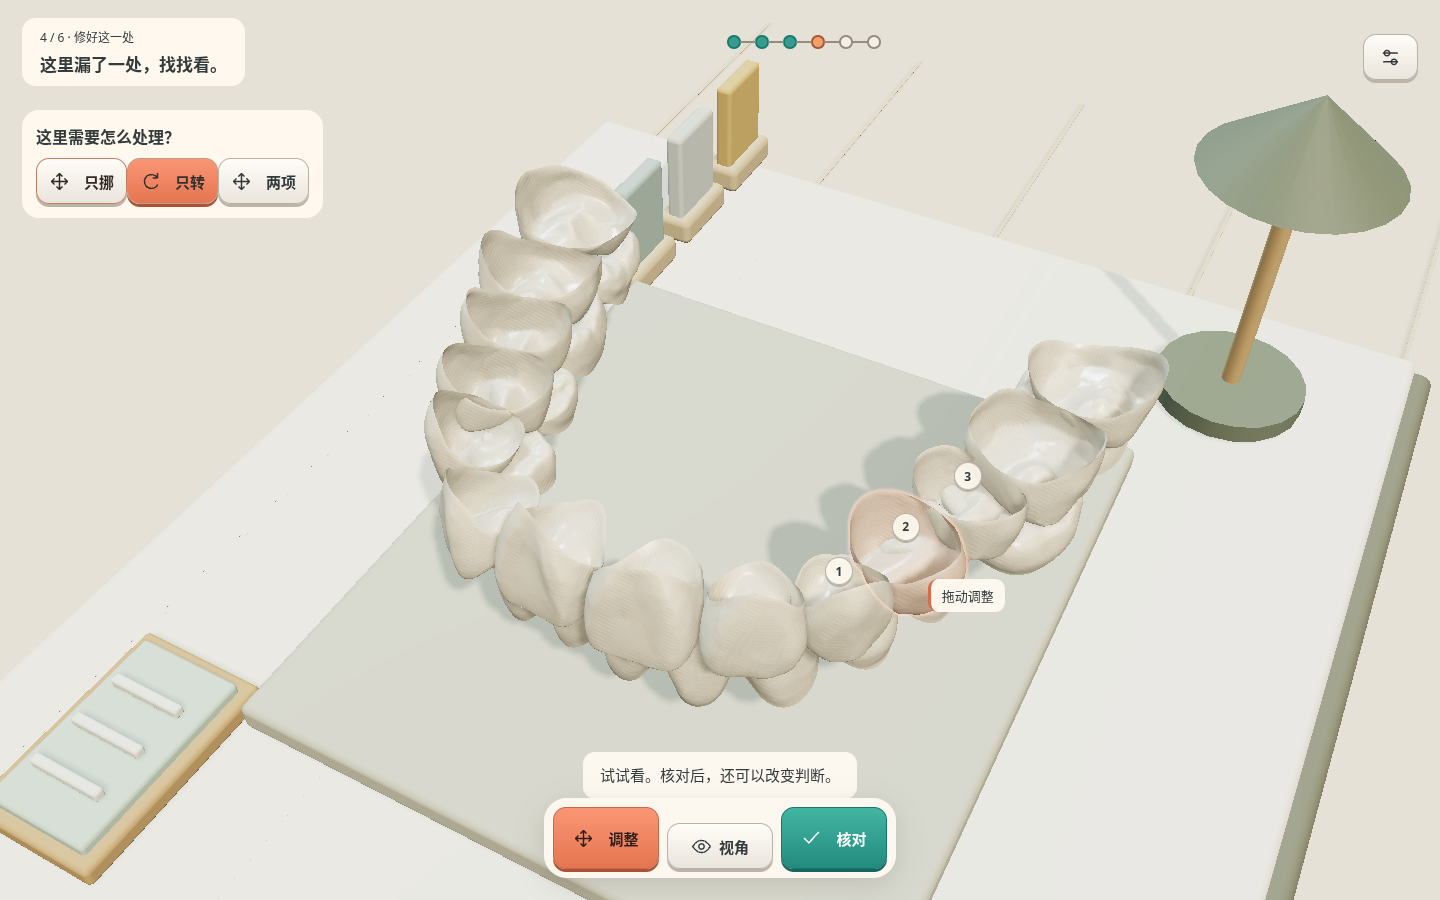
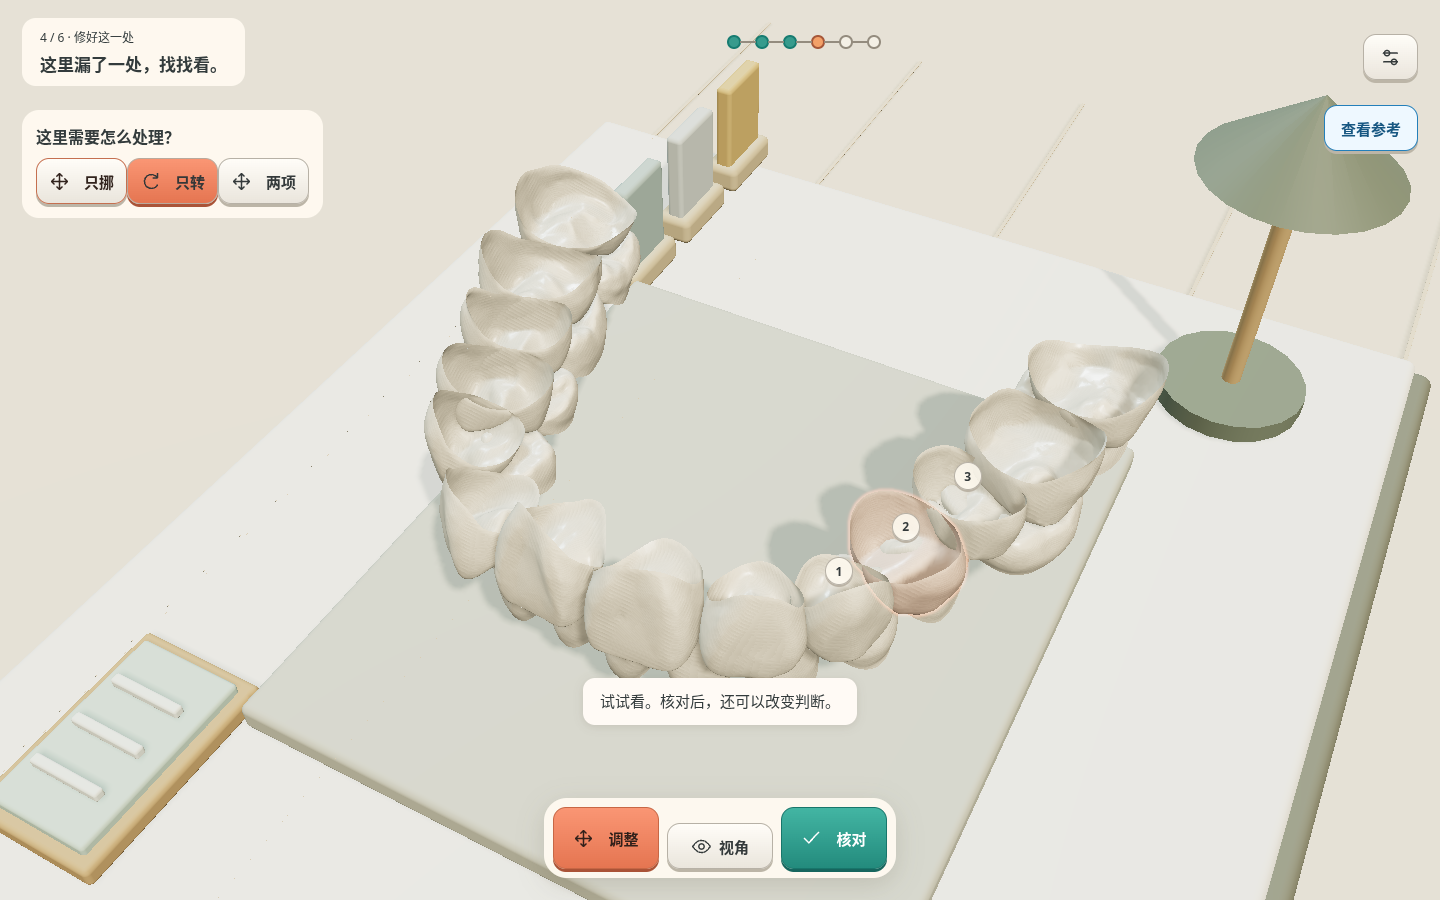
Expose course references and keep adjustment feedback unobstructed

Changed region(s): [[0.4062, 0.7467, 0.5938, 0.9022], [0.9062, 0.0933, 1.0, 0.1867], [0.625, 0.6222, 0.7188, 0.6844]]

diff --git a/chi-xu-workshop/src/course-workshop.ts b/chi-xu-workshop/src/course-workshop.ts
@@ -45,7 +45,7 @@ export function mountPrediction(
     tool: Tool = lessons[state.stage].tool ?? "translate",
     fine = false,
     axis: Axis = "X",
-    outline = state.stage < 2,
+    outline = state.stage < 3,
     readonly = false,
     replay = false,
     pending = false,
@@ -82,7 +82,7 @@ export function mountPrediction(
   const targetGuide = new Group();
   scene.scene.add(targetGuide);
   const guideEdges = new Map<string, LineSegments>();
-  for (const id of ["6", "8"]) {
+  for (const id of new Set(lessons.flatMap((lesson) => [...lesson.ids]))) {
     const edge = new LineSegments(
       new EdgesGeometry(scene.teeth.get(id)!.geometry, 32),
       new LineBasicMaterial({
@@ -112,15 +112,32 @@ export function mountPrediction(
     if (m && !Array.isArray(m)) m.depthTest = false;
   });
   function guidance() {
+    const available = !state.completed && !success && !replay;
+    const id =
+      state.stage < 2
+        ? lesson().ids[0]
+        : selected && candidate(selected)
+          ? selected
+          : null;
     const visible =
-      state.stage < 2 && !state.completed && !success && !replay && !readonly;
-    el("#course-guide").hidden = !visible;
+      available && !readonly && !!id && (state.stage < 2 || outline);
+    el(".course-game").dataset.advanced = String(state.stage >= 2);
+    const panel = el("#course-adjust");
+    el("#course-feedback").style.bottom = !panel.hidden
+      ? `${panel.getBoundingClientRect().height + 125}px`
+      : "";
+    el("#course-guide").hidden = !available;
+    el("#course-guide").dataset.active = String(visible);
     el("#course-guide svg").style.display = visible ? "" : "none";
     for (const edge of guideEdges.values()) edge.visible = false;
     goalArrow.visible = false;
-    el("#course-peek").textContent = readonly ? "回到操作" : "看正确位置";
+    el("#course-peek").textContent = readonly
+      ? "回到操作"
+      : state.stage < 2
+        ? "看正确位置"
+        : "查看参考";
     // Read-only comparison has a direct return next to the model as well.
-    if (readonly && state.stage < 2 && !replay) {
+    if (readonly && !replay) {
       el("#course-guide").hidden = false;
       el("#course-task-callout").hidden = true;
       el("#course-target-callout").hidden = true;
@@ -128,9 +145,8 @@ export function mountPrediction(
     }
     el("#course-task-callout").hidden = !visible;
     el("#course-target-callout").hidden = !visible;
-    if (!visible) return;
-    const id = lesson().ids[0],
-      target = data.target[id],
+    if (!visible || !id) return;
+    const target = data.target[id],
       mesh = scene.teeth.get(id)!,
       edge = guideEdges.get(id)!;
     edge.position
@@ -140,7 +156,10 @@ export function mountPrediction(
     edge.visible = true;
     const remaining = edge.position.clone().sub(mesh.position),
       length = remaining.length();
-    if (state.stage === 0 && length > tolerance.position) {
+    if (
+      (state.stage === 0 || (state.stage >= 2 && tool === "translate")) &&
+      length > tolerance.position
+    ) {
       goalArrow.position.copy(mesh.position);
       goalArrow.setDirection(remaining.normalize());
       goalArrow.setLength(
@@ -166,16 +185,29 @@ export function mountPrediction(
       b = el("#course-target-callout");
     a.style.left = `${x}px`;
     a.style.top = `${y - 90}px`;
-    a.textContent = state.stage === 0 ? "① 移动这颗牙" : "① 转动这颗牙";
-    b.style.left = `${Math.max(100, Math.min(w - 100, goal.x))}px`;
-    b.style.top = `${Math.max(y + 55, Math.min(h - 165, goal.y + 65))}px`;
+    a.textContent =
+      state.stage === 0
+        ? "① 移动这颗牙"
+        : state.stage === 1
+          ? "① 转动这颗牙"
+          : "当前选中";
+    const goalX = Math.max(
+      100,
+      Math.min(w - 100, goal.x + (state.stage >= 2 ? 150 : 0)),
+    );
+    const goalY =
+      state.stage >= 2
+        ? Math.max(165, y - 145)
+        : Math.max(y + 55, Math.min(h - 165, goal.y + 65));
+    b.style.left = `${goalX}px`;
+    b.style.top = `${goalY}px`;
     el("#course-task-leader").setAttribute(
       "d",
       `M ${x} ${y - 65} L ${current.x} ${current.y}`,
     );
     el("#course-target-leader").setAttribute(
       "d",
-      `M ${Math.max(100, Math.min(w - 100, goal.x))} ${Math.max(y + 55, Math.min(h - 165, goal.y + 65))} L ${goal.x} ${goal.y}`,
+      `M ${goalX} ${goalY + 20} L ${goal.x} ${goal.y}`,
     );
     scene.dirty = true;
   }
@@ -366,7 +398,9 @@ export function mountPrediction(
     feedback = candidate(id)
       ? state.stage === 3
         ? "先判断哪里需要修，再动手。"
-        : "拖动试试看。"
+        : state.stage >= 2
+          ? "蓝线是参考，可以先比较位置和朝向。"
+          : "拖动试试看。"
       : "这颗不在本次范围里，先检查眼前这一组。";
     paint();
   }
@@ -499,7 +533,7 @@ export function mountPrediction(
     undo.length = redo.length = 0;
     tool = lesson().tool ?? "translate";
     selected = state.stage < 3 || state.stage === 4 ? lesson().ids[0] : null;
-    outline = state.stage < 2;
+    outline = state.stage < 3;
     feedback = state.stage === 1 ? "位置不动，这次转方向。" : "";
     el("#course-adjust").hidden = true;
     paint();
@@ -640,6 +674,7 @@ export function mountPrediction(
     }
     if (a === "reference") {
       cancel();
+      el("#course-adjust").hidden = true;
       if (replay) {
         feedback = "先回到操作，再查看参考。";
         ui();
@@ -792,24 +827,36 @@ export function mountPrediction(
   if (state.completed) showReplay();
   const timer = setInterval(() => {
     guidance();
-    el("#course-region").innerHTML =
-      state.stage >= 2 && !readonly && !replay
-        ? lesson()
-            .ids.map((id, i) => {
-              const p = scene.marker(id);
-              return p?.visible
-                ? `<button aria-label="检查候选 ${i + 1}" data-course="pick-${id}" style="left:${p.x}px;top:${p.y - 30}px">${i + 1}</button>`
-                : "";
-            })
-            .join("")
-        : "";
+    const region = el("#course-region");
+    region.hidden = state.stage < 2 || readonly || replay;
+    const regionKey = lesson().ids.join(",");
+    if (region.dataset.key !== regionKey) {
+      region.dataset.key = regionKey;
+      region.innerHTML = lesson()
+        .ids.map(
+          (id, i) =>
+            `<button aria-label="检查候选 ${i + 1}" data-course="pick-${id}">${i + 1}</button>`,
+        )
+        .join("");
+    }
+    for (const id of lesson().ids) {
+      const point = scene.marker(id),
+        button = region.querySelector<HTMLElement>(
+          `[data-course="pick-${id}"]`,
+        )!;
+      button.hidden = !point?.visible;
+      if (point) {
+        button.style.left = `${point.x}px`;
+        button.style.top = `${point.y - 30}px`;
+      }
+    }
     if (!selected) {
       el("#course-label").hidden = true;
       return;
     }
     const p = scene.marker(selected);
     const label = el("#course-label");
-    label.hidden = !p?.visible;
+    label.hidden = !p?.visible || readonly || replay || success;
     if (p) {
       label.style.left = `${Math.max(8, Math.min(scene.host.clientWidth - 210, p.x + 22))}px`;
       label.style.top = `${Math.max(90, Math.min(scene.host.clientHeight - 190, p.y + 22))}px`;

diff --git a/chi-xu-workshop/tests/browser/course.spec.ts b/chi-xu-workshop/tests/browser/course.spec.ts
@@ -426,3 +426,97 @@ test("第二关视觉接近即可通过，明显方向偏差仍提示修正", as
   await expect(page.locator("#course-feedback")).toContainText("方向还差一点");
   await expect(page.locator("#course-success")).toBeHidden();
 });
+
+test("第三关参考直接可见，选择同步目标，切换参考同镜头只读并收起操作栏", async ({
+  page,
+}) => {
+  await enter(page, 2);
+  await expect(page.locator("#course-peek")).toHaveText("查看参考");
+  await b(page, "pick-10").click();
+  await expect(page.locator("#course-target-callout")).toBeVisible();
+  const snap = () =>
+    page.evaluate(() => {
+      const s = (window as any).__courseScene;
+      return {
+        camera: s.camera.position.toArray(),
+        target: s.orbit.target.toArray(),
+        poses: Object.fromEntries(
+          [...s.teeth.keys()].map((id) => [id, s.readPose(id)]),
+        ),
+        edges: s.scene.children.flatMap((g: any) =>
+          g.children
+            .filter((o: any) => o.type === "LineSegments" && o.visible)
+            .map((o: any) => ({
+              position: o.position.toArray(),
+              quaternion: o.quaternion.toArray(),
+            })),
+        ),
+      };
+    });
+  const before = await snap(),
+    raw = await saved(page);
+  expect(before.edges.length).toBe(1);
+  const pivot = data.target["10"].pivot,
+    translation = data.target["10"].translation;
+  before.edges[0].position.forEach((v: number, i: number) =>
+    expect(v).toBeCloseTo(pivot[i] + translation[i], 8),
+  );
+  await b(page, "adjust").click();
+  await b(page, "check").click();
+  await expect
+    .poll(async () => {
+      const feedback = await page.locator("#course-feedback").boundingBox(),
+        panel = await page.locator("#course-adjust").boundingBox();
+      return feedback!.y + feedback!.height <= panel!.y;
+    })
+    .toBe(true);
+  await page.screenshot({
+    path: "docs/screenshots/course-reference-feedback.png",
+  });
+  await page.locator("#course-peek").click();
+  await expect(page.locator("#course-adjust")).toBeHidden();
+  await expect(page.locator("#course-peek")).toHaveText("回到操作");
+  const reference = await snap();
+  reference.camera.forEach((v: number, i: number) =>
+    expect(v).toBeCloseTo(before.camera[i], 8),
+  );
+  for (const id of ["9", "10"])
+    expect(reference.poses[id].quaternion).toEqual(data.target[id].quaternion);
+  expect(await saved(page)).toBe(raw);
+  await page.locator("#course-peek").click();
+  expect((await snap()).poses).toEqual(before.poses);
+  expect(await saved(page)).toBe(raw);
+  await page.screenshot({
+    path: "docs/screenshots/course-reference-third.png",
+  });
+  await page.setViewportSize({ width: 390, height: 844 });
+  await expect(page.locator("#course-peek")).toBeInViewport();
+  await b(page, "adjust").click();
+  await b(page, "check").click();
+  await expect
+    .poll(async () => {
+      const f = await page.locator("#course-feedback").boundingBox(),
+        p = await page.locator("#course-adjust").boundingBox();
+      return f!.y + f!.height <= p!.y;
+    })
+    .toBe(true);
+  await page.screenshot({
+    path: "docs/screenshots/course-reference-third-mobile.png",
+  });
+});
+
+test("找错与终章不预标答案，但始终有直接参考入口且不改保存", async ({
+  page,
+}) => {
+  for (const stage of [3, 5]) {
+    await enter(page, stage);
+    await expect(page.locator("#course-task-callout")).toBeHidden();
+    await expect(page.locator("#course-peek")).toBeVisible();
+    const raw = await saved(page);
+    await page.locator("#course-peek").click();
+    await expect(page.locator("#course-mode")).toContainText("参考");
+    await page.locator("#course-peek").click();
+    expect(await saved(page)).toBe(raw);
+    await tools(page, "exit");
+  }
+});

diff --git a/chi-xu-workshop/src/course-workshop.css b/chi-xu-workshop/src/course-workshop.css
@@ -552,3 +552,34 @@ body.course-mode {
 #course-guide:not([hidden]) ~ #course-mode {
   top: 105px;
 }
+/* Reference remains directly reachable after the introductory lessons. */
+.course-game[data-advanced="true"] #course-peek {
+  top: 105px;
+  right: 22px;
+  left: auto;
+  bottom: auto;
+  transform: none;
+  z-index: 7;
+}
+.course-game[data-advanced="true"] #course-task-callout {
+  background: #fff4eb;
+  border-color: #d87a50;
+  color: #52362a;
+  box-shadow: none;
+}
+#course-feedback {
+  z-index: 8;
+  background: #fffaf5;
+  color: #333b3c;
+  box-shadow: 0 2px 9px #443b2420;
+}
+@media (max-width: 650px) {
+  .course-game[data-advanced="true"] #course-peek {
+    top: 105px;
+    right: 12px;
+    min-height: 40px;
+  }
+}
+#course-guide[data-active="false"] ~ #course-label {
+  display: block;
+}

diff --git a/chi-xu-workshop/docs/VALIDATION.md b/chi-xu-workshop/docs/VALIDATION.md
@@ -1,3 +1,9 @@
+## 2026-11-04 第三关与后续参考入口修复
+
+第三关默认启用参考，选中候选后显示该牙实际目标边线、选择标记，以及平移模式下的剩余位移箭头。所有未完成课程均可从主画面直接查看参考/返回实际状态，查看时收起调整面板；第四与第六关不自动定位错误。反馈动态显示在面板上方，后续关卡的目标文字移到模型上方，避免被操作面板遮挡。只读参考与实际位姿使用同一相机，存档、关卡条件和源网格不变。
+
+浏览器检查暴露了候选编号每100ms重建导致按钮偶尔无法稳定点击的问题，现保留DOM节点，仅更新位置/可见性。93项单元检查、构建通过；4个相关浏览器用例分轮通过：入门指引回归、旧找错拖动/取消/撤销回归、第三关目标位置/只读切换/相机与存档保护/反馈无遮挡与手机可达、找错与终章入口且不预标答案。首次运行环境服务未连接，启动Vite后重跑；编号按钮稳定性故障修正后重跑通过。桌面与手机 course-reference-*.png 已目视检查。Windows本机更新未在云端执行。
+
 ## 2026-10-27 基础课程方向容差放宽
 
 用户实机反馈第二关视觉上接近仍无法通过。基础六关方向容差由0.6°调整为5°，位置条件保持0.075u，其他模式及参考矩阵不变。核对、历史记录验证、找遗漏与反馈统一读取课程容差，不再在界面硬编码旧角度；达标的操作直接提示“已经到位了，点核对就好”。不自动吸附终点，不清空现有进度。

diff --git a/chi-xu-workshop/docs/SPATIAL_COURSE.md b/chi-xu-workshop/docs/SPATIAL_COURSE.md
@@ -38,3 +38,6 @@
 
 ## 入门可见性补充
 前两关常显任务标记、蓝色实际目标边线与直接看正确位置入口。点错非任务牙保留任务选择；第一关核对失败重显目标与移动方向。查看参考只读，直接返回操作无需进工具菜单。该帮助不应用于找错与独立复核关。
+
+## 2026-11-04 参考可见性与反馈补充
+第三关进入即启用参考轮廓，选中候选后显示该牙清晰的蓝色目标边线及当前选择标记；平移模式显示实际剩余位移箭头。所有未完成关卡主画面均有“查看参考/回到操作”，不再依赖工具菜单；查看参考自动收起调整面板。第四、六关默认不选问题牙、不预标答案，但可以直接只读对照。参考不写存档，不修改相机、网格、过关容差或课程进度。调整面板展开时反馈自动移到面板上方，防止文字被遮挡。
